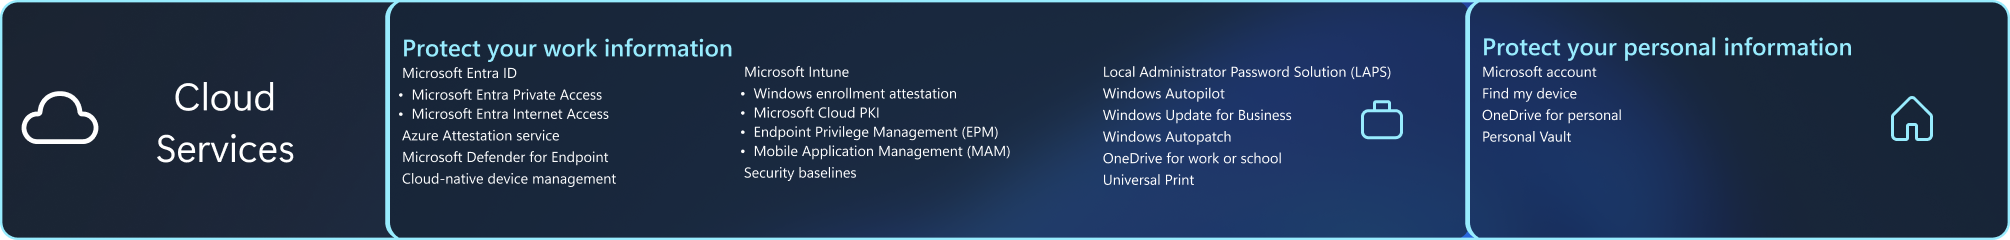
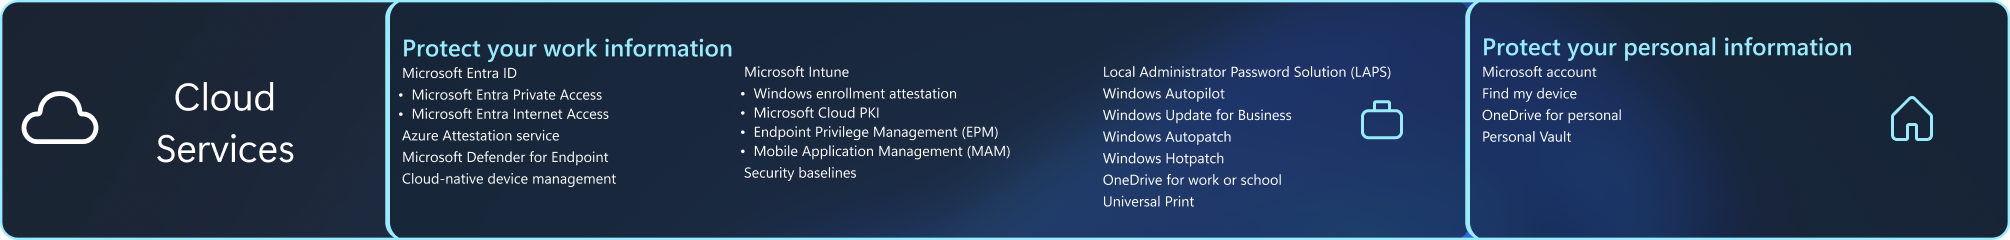
Windows Hotpatch

Changed region(s): [[0.5244, 0.7292, 0.6478, 0.7875], [0.5244, 0.6417, 0.6478, 0.7], [0.5552, 0.8167, 0.6169, 0.875]]

diff --git a/windows/security/book/features-index.md b/windows/security/book/features-index.md
@@ -7,4 +7,4 @@ ms.date: 11/18/2024
 
 # Features index
 
-[5G and eSIM](operating-system-security-network-security.md#5g-and-esim)<br>[Access management and control](identity-protection-advanced-credential-protection.md#access-management-and-control)<br>[Account lockout policies](identity-protection-advanced-credential-protection.md#account-lockout-policies)<br>[Administrator protection](application-security-application-and-driver-control.md#-administrator-protection)<br>[App containers](application-security-application-isolation.md#app-containers)<br>[App Control for Business](application-security-application-and-driver-control.md#app-control-for-business)<br>[Attack surface reduction rules](operating-system-security-virus-and-threat-protection.md#attack-surface-reduction-rules)<br>[Azure Attestation service](cloud-services-protect-your-work-information.md#azure-attestation-service)<br>[BitLocker To Go](operating-system-security-encryption-and-data-protection.md#bitlocker-to-go)<br>[BitLocker](operating-system-security-encryption-and-data-protection.md#bitlocker)<br>[Bluetooth protection](operating-system-security-network-security.md#bluetooth-protection)<br>[Certificates](operating-system-security-system-security.md#certificates)<br>[Cloud-native device management](cloud-services-protect-your-work-information.md#cloud-native-device-management)<br>[Code signing and integrity](operating-system-security-system-security.md#code-signing-and-integrity)<br>[Common Criteria (CC)](security-foundation-certification.md#common-criteria-cc)<br>[Config Refresh](operating-system-security-system-security.md#-config-refresh)<br>[Controlled folder access](operating-system-security-virus-and-threat-protection.md#controlled-folder-access)<br>[Credential Guard](identity-protection-advanced-credential-protection.md#credential-guard)<br>[Cryptography](operating-system-security-system-security.md#cryptography)<br>[Device Encryption](operating-system-security-encryption-and-data-protection.md#device-encryption)<br>[Device Health Attestation](operating-system-security-system-security.md#device-health-attestation)<br>[Domain Name System (DNS) security](operating-system-security-network-security.md#domain-name-system-dns-security)<br>[Email encryption](operating-system-security-encryption-and-data-protection.md#email-encryption)<br>[Encrypted hard drive](operating-system-security-encryption-and-data-protection.md#encrypted-hard-drive)<br>[Enhanced phishing protection in Microsoft Defender SmartScreen](identity-protection-passwordless-sign-in.md#enhanced-phishing-protection-in-microsoft-defender-smartscreen)<br>[Enhanced Sign-in Security (ESS)](identity-protection-passwordless-sign-in.md#enhanced-sign-in-security-ess)<br>[Exploit Protection](operating-system-security-virus-and-threat-protection.md#exploit-protection)<br>[Federal Information Processing Standard (FIPS)](security-foundation-certification.md#federal-information-processing-standard-fips)<br>[Federated sign-in](identity-protection-passwordless-sign-in.md#federated-sign-in)<br>[FIDO2](identity-protection-passwordless-sign-in.md#fido2)<br>[Find my device](cloud-services-protect-your-personal-information.md#find-my-device)<br>[Kernel direct memory access (DMA) protection](hardware-security-silicon-assisted-security.md#kernel-direct-memory-access-dma-protection)<br>[Kiosk mode](operating-system-security-system-security.md#kiosk-mode)<br>[Local Security Authority (LSA) protection](identity-protection-advanced-credential-protection.md#local-security-authority-lsa-protection)<br>[Microsoft account](cloud-services-protect-your-personal-information.md#microsoft-account)<br>[Microsoft Authenticator](identity-protection-passwordless-sign-in.md#microsoft-authenticator)<br>[Microsoft Cloud PKI](cloud-services-protect-your-work-information.md#microsoft-cloud-pki)<br>[Microsoft Defender Antivirus](operating-system-security-virus-and-threat-protection.md#microsoft-defender-antivirus)<br>[Microsoft Defender for Endpoint](cloud-services-protect-your-work-information.md#microsoft-defender-for-endpoint)<br>[Microsoft Defender SmartScreen](operating-system-security-virus-and-threat-protection.md#microsoft-defender-smartscreen)<br>[Microsoft Entra ID](cloud-services-protect-your-work-information.md#microsoft-entra-id)<br>[Microsoft Intune](cloud-services-protect-your-work-information.md#microsoft-intune)<br>[Microsoft Offensive Research and Security Engineering](security-foundation-offensive-research.md#microsoft-offensive-research-and-security-engineering)<br>[Microsoft Pluton security processor](hardware-security-hardware-root-of-trust.md#microsoft-pluton-security-processor)<br>[Microsoft Privacy Dashboard](privacy-controls.md#microsoft-privacy-dashboard)<br>[Microsoft Security Development Lifecycle (SDL)](security-foundation-offensive-research.md#microsoft-security-development-lifecycle-sdl)<br>[Microsoft vulnerable driver blocklist](application-security-application-and-driver-control.md#microsoft-vulnerable-driver-blocklist)<br>[Network protection](operating-system-security-virus-and-threat-protection.md#network-protection)<br>[OneDrive for personal](cloud-services-protect-your-personal-information.md#onedrive-for-personal)<br>[OneDrive for work or school](cloud-services-protect-your-work-information.md#onedrive-for-work-or-school)<br>[OneFuzz service](security-foundation-offensive-research.md#onefuzz-service)<br>[Personal Data Encryption (PDE)](operating-system-security-encryption-and-data-protection.md#personal-data-encryption-pde)<br>[Personal Vault](cloud-services-protect-your-personal-information.md#personal-vault)<br>[Privacy resource usage](privacy-controls.md#privacy-resource-usage)<br>[Privacy transparency and controls](privacy-controls.md#privacy-transparency-and-controls)<br>[Remote Credential Guard](identity-protection-advanced-credential-protection.md#remote-credential-guard)<br>[Remote Wipe](cloud-services-protect-your-work-information.md#remote-wipe)<br>[Rust for Windows](operating-system-security-system-security.md#-rust-for-windows)<br>[Secure Future Initiative (SFI)](security-foundation-offensive-research.md#secure-future-initiative-sfi)<br>[Secured kernel](hardware-security-silicon-assisted-security.md#secured-kernel)<br>[Secured-core PC and Edge Secured-Core](hardware-security-silicon-assisted-security.md#secured-core-pc-and-edge-secured-core)<br>[Security baselines](cloud-services-protect-your-work-information.md#security-baselines)<br>[Server Message Block file services](operating-system-security-network-security.md#server-message-block-file-services)<br>[Smart App Control](application-security-application-and-driver-control.md#smart-app-control)<br>[Smart cards](identity-protection-passwordless-sign-in.md#smart-cards)<br>[Software bill of materials (SBOM)](security-foundation-secure-supply-chain.md#software-bill-of-materials-sbom)<br>[Tamper protection](operating-system-security-virus-and-threat-protection.md#tamper-protection)<br>[Token protection (preview)](identity-protection-advanced-credential-protection.md#token-protection-preview)<br>[Transport Layer Security (TLS)](operating-system-security-network-security.md#transport-layer-security-tls)<br>[Trusted Boot (Secure Boot + Measured Boot)](operating-system-security-system-security.md#trusted-boot-secure-boot--measured-boot)<br>[Trusted Platform Module (TPM)](hardware-security-hardware-root-of-trust.md#trusted-platform-module-tpm)<br>[Trusted Signing](application-security-application-and-driver-control.md#-trusted-signing)<br>[Universal Print](cloud-services-protect-your-work-information.md#universal-print)<br>[VBS key protection](identity-protection-advanced-credential-protection.md#-vbs-key-protection)<br>[Virtual private networks (VPN)](operating-system-security-network-security.md#virtual-private-networks-vpn)<br>[Virtualization-based security enclaves](application-security-application-isolation.md#-virtualization-based-security-enclaves)<br>[Web sign-in](identity-protection-passwordless-sign-in.md#web-sign-in)<br>[Wi-Fi connections](operating-system-security-network-security.md#wi-fi-connections)<br>[Win32 app isolation](application-security-application-isolation.md#-win32-app-isolation)<br>[Windows Autopatch](cloud-services-protect-your-work-information.md#windows-autopatch)<br>[Windows Autopilot](cloud-services-protect-your-work-information.md#windows-autopilot)<br>[Windows diagnostic data processor configuration](privacy-controls.md#windows-diagnostic-data-processor-configuration)<br>[Windows enrollment attestation](cloud-services-protect-your-work-information.md#windows-enrollment-attestation)<br>[Windows Firewall](operating-system-security-network-security.md#windows-firewall)<br>[Windows Hello for Business](identity-protection-passwordless-sign-in.md#windows-hello-for-business)<br>[Windows Hello](identity-protection-passwordless-sign-in.md#windows-hello)<br>[Windows Insider and Microsoft Bug Bounty Programs](security-foundation-offensive-research.md#windows-insider-and-microsoft-bug-bounty-programs)<br>[Windows Local Administrator Password Solution (LAPS)](cloud-services-protect-your-work-information.md#windows-local-administrator-password-solution-laps)<br>[Windows presence sensing](identity-protection-passwordless-sign-in.md#windows-presence-sensing)<br>[Windows protected print](operating-system-security-system-security.md#-windows-protected-print)<br>[Windows Sandbox](application-security-application-isolation.md#windows-sandbox)<br>[Windows security policy settings and auditing](operating-system-security-system-security.md#windows-security-policy-settings-and-auditing)<br>[Windows security](operating-system-security-system-security.md#windows-security)<br>[Windows Software Development Kit (SDK)](security-foundation-secure-supply-chain.md#windows-software-development-kit-sdk)<br>[Windows Subsystem for Linux (WSL)](application-security-application-isolation.md#windows-subsystem-for-linux-wsl)<br>[Windows Update for Business](cloud-services-protect-your-work-information.md#windows-update-for-business)
+[5G and eSIM](operating-system-security-network-security.md#5g-and-esim)<br>[Access management and control](identity-protection-advanced-credential-protection.md#access-management-and-control)<br>[Account lockout policies](identity-protection-advanced-credential-protection.md#account-lockout-policies)<br>[Administrator protection](application-security-application-and-driver-control.md#-administrator-protection)<br>[App containers](application-security-application-isolation.md#app-containers)<br>[App Control for Business](application-security-application-and-driver-control.md#app-control-for-business)<br>[Attack surface reduction rules](operating-system-security-virus-and-threat-protection.md#attack-surface-reduction-rules)<br>[Azure Attestation service](cloud-services-protect-your-work-information.md#azure-attestation-service)<br>[BitLocker To Go](operating-system-security-encryption-and-data-protection.md#bitlocker-to-go)<br>[BitLocker](operating-system-security-encryption-and-data-protection.md#bitlocker)<br>[Bluetooth protection](operating-system-security-network-security.md#bluetooth-protection)<br>[Certificates](operating-system-security-system-security.md#certificates)<br>[Cloud-native device management](cloud-services-protect-your-work-information.md#cloud-native-device-management)<br>[Code signing and integrity](operating-system-security-system-security.md#code-signing-and-integrity)<br>[Common Criteria (CC)](security-foundation-certification.md#common-criteria-cc)<br>[Config Refresh](operating-system-security-system-security.md#-config-refresh)<br>[Controlled folder access](operating-system-security-virus-and-threat-protection.md#controlled-folder-access)<br>[Credential Guard](identity-protection-advanced-credential-protection.md#credential-guard)<br>[Cryptography](operating-system-security-system-security.md#cryptography)<br>[Device Encryption](operating-system-security-encryption-and-data-protection.md#device-encryption)<br>[Device Health Attestation](operating-system-security-system-security.md#device-health-attestation)<br>[Domain Name System (DNS) security](operating-system-security-network-security.md#domain-name-system-dns-security)<br>[Email encryption](operating-system-security-encryption-and-data-protection.md#email-encryption)<br>[Encrypted hard drive](operating-system-security-encryption-and-data-protection.md#encrypted-hard-drive)<br>[Enhanced phishing protection in Microsoft Defender SmartScreen](identity-protection-passwordless-sign-in.md#enhanced-phishing-protection-in-microsoft-defender-smartscreen)<br>[Enhanced Sign-in Security (ESS)](identity-protection-passwordless-sign-in.md#enhanced-sign-in-security-ess)<br>[Exploit Protection](operating-system-security-virus-and-threat-protection.md#exploit-protection)<br>[Federal Information Processing Standard (FIPS)](security-foundation-certification.md#federal-information-processing-standard-fips)<br>[Federated sign-in](identity-protection-passwordless-sign-in.md#federated-sign-in)<br>[FIDO2](identity-protection-passwordless-sign-in.md#fido2)<br>[Find my device](cloud-services-protect-your-personal-information.md#find-my-device)<br>[Kernel direct memory access (DMA) protection](hardware-security-silicon-assisted-security.md#kernel-direct-memory-access-dma-protection)<br>[Kiosk mode](operating-system-security-system-security.md#kiosk-mode)<br>[Local Security Authority (LSA) protection](identity-protection-advanced-credential-protection.md#local-security-authority-lsa-protection)<br>[Microsoft account](cloud-services-protect-your-personal-information.md#microsoft-account)<br>[Microsoft Authenticator](identity-protection-passwordless-sign-in.md#microsoft-authenticator)<br>[Microsoft Cloud PKI](cloud-services-protect-your-work-information.md#microsoft-cloud-pki)<br>[Microsoft Defender Antivirus](operating-system-security-virus-and-threat-protection.md#microsoft-defender-antivirus)<br>[Microsoft Defender for Endpoint](cloud-services-protect-your-work-information.md#microsoft-defender-for-endpoint)<br>[Microsoft Defender SmartScreen](operating-system-security-virus-and-threat-protection.md#microsoft-defender-smartscreen)<br>[Microsoft Entra ID](cloud-services-protect-your-work-information.md#microsoft-entra-id)<br>[Microsoft Intune](cloud-services-protect-your-work-information.md#microsoft-intune)<br>[Microsoft Offensive Research and Security Engineering](security-foundation-offensive-research.md#microsoft-offensive-research-and-security-engineering)<br>[Microsoft Pluton security processor](hardware-security-hardware-root-of-trust.md#microsoft-pluton-security-processor)<br>[Microsoft Privacy Dashboard](privacy-controls.md#microsoft-privacy-dashboard)<br>[Microsoft Security Development Lifecycle (SDL)](security-foundation-offensive-research.md#microsoft-security-development-lifecycle-sdl)<br>[Microsoft vulnerable driver blocklist](application-security-application-and-driver-control.md#microsoft-vulnerable-driver-blocklist)<br>[Network protection](operating-system-security-virus-and-threat-protection.md#network-protection)<br>[OneDrive for personal](cloud-services-protect-your-personal-information.md#onedrive-for-personal)<br>[OneDrive for work or school](cloud-services-protect-your-work-information.md#onedrive-for-work-or-school)<br>[OneFuzz service](security-foundation-offensive-research.md#onefuzz-service)<br>[Personal Data Encryption (PDE)](operating-system-security-encryption-and-data-protection.md#personal-data-encryption-pde)<br>[Personal Vault](cloud-services-protect-your-personal-information.md#personal-vault)<br>[Privacy resource usage](privacy-controls.md#privacy-resource-usage)<br>[Privacy transparency and controls](privacy-controls.md#privacy-transparency-and-controls)<br>[Remote Credential Guard](identity-protection-advanced-credential-protection.md#remote-credential-guard)<br>[Remote Wipe](cloud-services-protect-your-work-information.md#remote-wipe)<br>[Rust for Windows](operating-system-security-system-security.md#-rust-for-windows)<br>[Secure Future Initiative (SFI)](security-foundation-offensive-research.md#secure-future-initiative-sfi)<br>[Secured kernel](hardware-security-silicon-assisted-security.md#secured-kernel)<br>[Secured-core PC and Edge Secured-Core](hardware-security-silicon-assisted-security.md#secured-core-pc-and-edge-secured-core)<br>[Security baselines](cloud-services-protect-your-work-information.md#security-baselines)<br>[Server Message Block file services](operating-system-security-network-security.md#server-message-block-file-services)<br>[Smart App Control](application-security-application-and-driver-control.md#smart-app-control)<br>[Smart cards](identity-protection-passwordless-sign-in.md#smart-cards)<br>[Software bill of materials (SBOM)](security-foundation-secure-supply-chain.md#software-bill-of-materials-sbom)<br>[Tamper protection](operating-system-security-virus-and-threat-protection.md#tamper-protection)<br>[Token protection (preview)](identity-protection-advanced-credential-protection.md#token-protection-preview)<br>[Transport Layer Security (TLS)](operating-system-security-network-security.md#transport-layer-security-tls)<br>[Trusted Boot (Secure Boot + Measured Boot)](operating-system-security-system-security.md#trusted-boot-secure-boot--measured-boot)<br>[Trusted Platform Module (TPM)](hardware-security-hardware-root-of-trust.md#trusted-platform-module-tpm)<br>[Trusted Signing](application-security-application-and-driver-control.md#-trusted-signing)<br>[Universal Print](cloud-services-protect-your-work-information.md#universal-print)<br>[VBS key protection](identity-protection-advanced-credential-protection.md#-vbs-key-protection)<br>[Virtual private networks (VPN)](operating-system-security-network-security.md#virtual-private-networks-vpn)<br>[Virtualization-based security enclaves](application-security-application-isolation.md#-virtualization-based-security-enclaves)<br>[Web sign-in](identity-protection-passwordless-sign-in.md#web-sign-in)<br>[Wi-Fi connections](operating-system-security-network-security.md#wi-fi-connections)<br>[Win32 app isolation](application-security-application-isolation.md#-win32-app-isolation)<br>[Windows Autopatch](cloud-services-protect-your-work-information.md#windows-autopatch)<br>[Windows Autopilot](cloud-services-protect-your-work-information.md#windows-autopilot)<br>[Windows diagnostic data processor configuration](privacy-controls.md#windows-diagnostic-data-processor-configuration)<br>[Windows enrollment attestation](cloud-services-protect-your-work-information.md#windows-enrollment-attestation)<br>[Windows Firewall](operating-system-security-network-security.md#windows-firewall)<br>[Windows Hello for Business](identity-protection-passwordless-sign-in.md#windows-hello-for-business)<br>[Windows Hello](identity-protection-passwordless-sign-in.md#windows-hello)<br>[Windows Hotpatch](cloud-services-protect-your-work-information.md#-windows-hotpatch)<br>[Windows Insider and Microsoft Bug Bounty Programs](security-foundation-offensive-research.md#windows-insider-and-microsoft-bug-bounty-programs)<br>[Windows Local Administrator Password Solution (LAPS)](cloud-services-protect-your-work-information.md#windows-local-administrator-password-solution-laps)<br>[Windows presence sensing](identity-protection-passwordless-sign-in.md#windows-presence-sensing)<br>[Windows protected print](operating-system-security-system-security.md#-windows-protected-print)<br>[Windows Sandbox](application-security-application-isolation.md#windows-sandbox)<br>[Windows security policy settings and auditing](operating-system-security-system-security.md#windows-security-policy-settings-and-auditing)<br>[Windows security](operating-system-security-system-security.md#windows-security)<br>[Windows Software Development Kit (SDK)](security-foundation-secure-supply-chain.md#windows-software-development-kit-sdk)<br>[Windows Subsystem for Linux (WSL)](application-security-application-isolation.md#windows-subsystem-for-linux-wsl)<br>[Windows Update for Business](cloud-services-protect-your-work-information.md#windows-update-for-business)

diff --git a/includes/licensing/_licensing-requirements.md b/includes/licensing/_licensing-requirements.md
@@ -5,7 +5,7 @@ ms.date: 11/02/2023
 ms.topic: include
 ---
 
-|Feature name|Windows Pro/Pro Education/SE|Windows Enterprise E3|Windows Enterprise E5|Windows Education A3|Windows Education A5|
+|Feature name|Windows Pro/Pro Education|Windows Enterprise E3|Windows Enterprise E5|Windows Education A3|Windows Education A5|
 |:---|:---:|:---:|:---:|:---:|:---:|
 |**[Access Control (ACL/SACL)](/windows/security/identity-protection/access-control/access-control)**|Yes|Yes|Yes|Yes|Yes|
 |**[Account Lockout Policy](/windows/security/threat-protection/security-policy-settings/account-lockout-policy)**|Yes|Yes|Yes|Yes|Yes|
@@ -13,7 +13,7 @@ ms.topic: include
 |**[Always On VPN (device tunnel)](/Windows-server/remote/remote-access/overview-always-on-vpn)**|❌|Yes|Yes|Yes|Yes|
 |**[App containers](/virtualization/windowscontainers/about/)**|Yes|Yes|Yes|Yes|Yes|
 |**[AppLocker](/windows/security/application-security/application-control/windows-defender-application-control/applocker/applocker-overview)**|❌|Yes|Yes|Yes|Yes|
-|**[Assigned Access (kiosk mode)](/windows/configuration/kiosk-methods)**|Yes|Yes|Yes|Yes|Yes|
+|**[Assigned Access (kiosk mode)](/windows/configuration/assigned-access)**|Yes|Yes|Yes|Yes|Yes|
 |**[Attack surface reduction (ASR)](/microsoft-365/security/defender-endpoint/overview-attack-surface-reduction)**|Yes|Yes|Yes|Yes|Yes|
 |**[Azure Code Signing](/windows/security/application-security/application-control/windows-defender-application-control/deployment/use-code-signing-for-better-control-and-protection)**|Yes|Yes|Yes|Yes|Yes|
 |**[BitLocker enablement](/windows/security/operating-system-security/data-protection/bitlocker/)**|Yes|Yes|Yes|Yes|Yes|
@@ -84,6 +84,7 @@ ms.topic: include
 |**[Windows Firewall](/windows/security/operating-system-security/network-security/windows-firewall)**|Yes|Yes|Yes|Yes|Yes|
 |**[Windows Hello for Business](/windows/security/identity-protection/hello-for-business/)**|Yes|Yes|Yes|Yes|Yes|
 |**[Windows Hello for Business Enhanced Security Sign-in (ESS)](/windows-hardware/design/device-experiences/windows-hello-enhanced-sign-in-security)**|Yes|Yes|Yes|Yes|Yes|
+|**Windows Hotpatch**|❌|Yes|Yes|❌|❌|
 |**[Windows LAPS](/windows-server/identity/laps/laps-overview)**|Yes|Yes|Yes|Yes|Yes|
 |**[Windows passwordless experience](/windows/security/identity-protection/passwordless-experience)**|Yes|Yes|Yes|Yes|Yes|
 |**[Windows presence sensing](https://support.microsoft.com/windows/managing-presence-sensing-settings-in-windows-11-82285c93-440c-4e15-9081-c9e38c1290bb)**|Yes|Yes|Yes|Yes|Yes|

diff --git a/includes/licensing/_edition-requirements.md b/includes/licensing/_edition-requirements.md
@@ -5,7 +5,7 @@ ms.date: 11/06/2024
 ms.topic: include
 ---
 
-| Feature name | Windows Pro | Windows Enterprise/IoT Enterprise | Windows Pro Education/SE | Windows Education |
+| Feature name | Windows Pro | Windows Enterprise/IoT Enterprise | Windows Pro Education | Windows Education |
 |:---|:---:|:---:|:---:|:---:|
 |**[Access Control (ACL/SACL)](/windows/security/identity-protection/access-control/access-control)**|Yes|Yes|Yes|Yes|
 |**[Account Lockout Policy](/windows/security/threat-protection/security-policy-settings/account-lockout-policy)**|Yes|Yes|Yes|Yes|
@@ -13,7 +13,7 @@ ms.topic: include
 |**[Always On VPN (device tunnel)](/Windows-server/remote/remote-access/overview-always-on-vpn)**|❌|Yes|❌|Yes|
 |**[App containers](/virtualization/windowscontainers/about/)**|Yes|Yes|Yes|Yes|
 |**[AppLocker](/windows/security/application-security/application-control/windows-defender-application-control/applocker/applocker-overview)**|Yes|Yes|Yes|Yes|
-|**[Assigned Access (kiosk mode)](/windows/configuration/kiosk-methods)**|Yes|Yes|Yes|Yes|
+|**[Assigned Access (kiosk mode)](/windows/configuration/assigned-access)**|Yes|Yes|Yes|Yes|
 |**[Attack surface reduction (ASR)](/microsoft-365/security/defender-endpoint/overview-attack-surface-reduction)**|Yes|Yes|Yes|Yes|
 |**[Azure Code Signing](/windows/security/application-security/application-control/windows-defender-application-control/deployment/use-code-signing-for-better-control-and-protection)**|Yes|Yes|Yes|Yes|
 |**[BitLocker enablement](/windows/security/operating-system-security/data-protection/bitlocker/)**|Yes|Yes|Yes|Yes|
@@ -84,6 +84,7 @@ ms.topic: include
 |**[Windows Firewall](/windows/security/operating-system-security/network-security/windows-firewall)**|Yes|Yes|Yes|Yes|
 |**[Windows Hello for Business](/windows/security/identity-protection/hello-for-business/)**|Yes|Yes|Yes|Yes|
 |**[Windows Hello for Business Enhanced Security Sign-in (ESS)](/windows-hardware/design/device-experiences/windows-hello-enhanced-sign-in-security)**|Yes|Yes|Yes|Yes|
+|**Windows Hotpatch**|❌|Yes|❌|❌|
 |**[Windows LAPS](/windows-server/identity/laps/laps-overview)**|Yes|Yes|Yes|Yes|
 |**[Windows passwordless experience](/windows/security/identity-protection/passwordless-experience)**|Yes|Yes|Yes|Yes|
 |**[Windows presence sensing](https://support.microsoft.com/windows/managing-presence-sensing-settings-in-windows-11-82285c93-440c-4e15-9081-c9e38c1290bb)**|Yes|Yes|Yes|Yes|

diff --git a/windows/security/book/cloud-services-protect-your-work-information.md b/windows/security/book/cloud-services-protect-your-work-information.md
@@ -342,6 +342,16 @@ There's a lot more to learn about Windows Autopatch: this [Forrester Consulting 
 - [Windows IT Pro Blog](https://techcommunity.microsoft.com/t5/windows-it-pro-blog/bg-p/Windows-ITPro-blog/label-name/Windows%20Autopatch)
 - [Windows Autopatch community](https://techcommunity.microsoft.com/t5/windows-autopatch/bd-p/Windows-Autopatch)
 
+## :::image type="icon" source="images/soon-button-title.svg" border="false"::: Windows Hotpatch
+
+Windows Hotpatch is a feature designed to enhance security and minimize disruptions. With Windows Hotpatch, organizations can apply critical security updates without requiring a system restart, reducing the time to adopt a security update by 60% from the moment the update is offered. Hotpatch updates streamline the installation process, enhance compliance efficiency, and provide a per-policy level view of update statuses for all devices.
+
+By utilizing hotpatching through Windows Autopatch, the number of system restarts for Windows updates can be reduced from 12 times a year to just 4, ensuring consistent protection and uninterrupted productivity. This means less downtime, a streamlined experience for users, and a reduction in security risks. This technology, proven in the Azure Server environment, is now expanding to Windows 11, offering immediate security from day one without the need for a restart.
+
+[!INCLUDE [learn-more](includes/learn-more.md)]
+
+- [Windows Autopatch documentation](/windows/deployment/windows-autopatch/)
+
 ## OneDrive for work or school
 
 :::row:::

diff --git a/windows/security/book/conclusion.md b/windows/security/book/conclusion.md
@@ -22,6 +22,7 @@ New:
 - [VBS key protection](identity-protection-advanced-credential-protection.md#-vbs-key-protection)
 - [Virtualization-based security enclaves](application-security-application-isolation.md#-virtualization-based-security-enclaves)
 - [Win32 app isolation](application-security-application-isolation.md#-win32-app-isolation)
+- [Windows Hotpatch](cloud-services-protect-your-work-information.md#-windows-hotpatch)
 - [Windows protected print](operating-system-security-system-security.md#-windows-protected-print)
 
 Enhanced:
